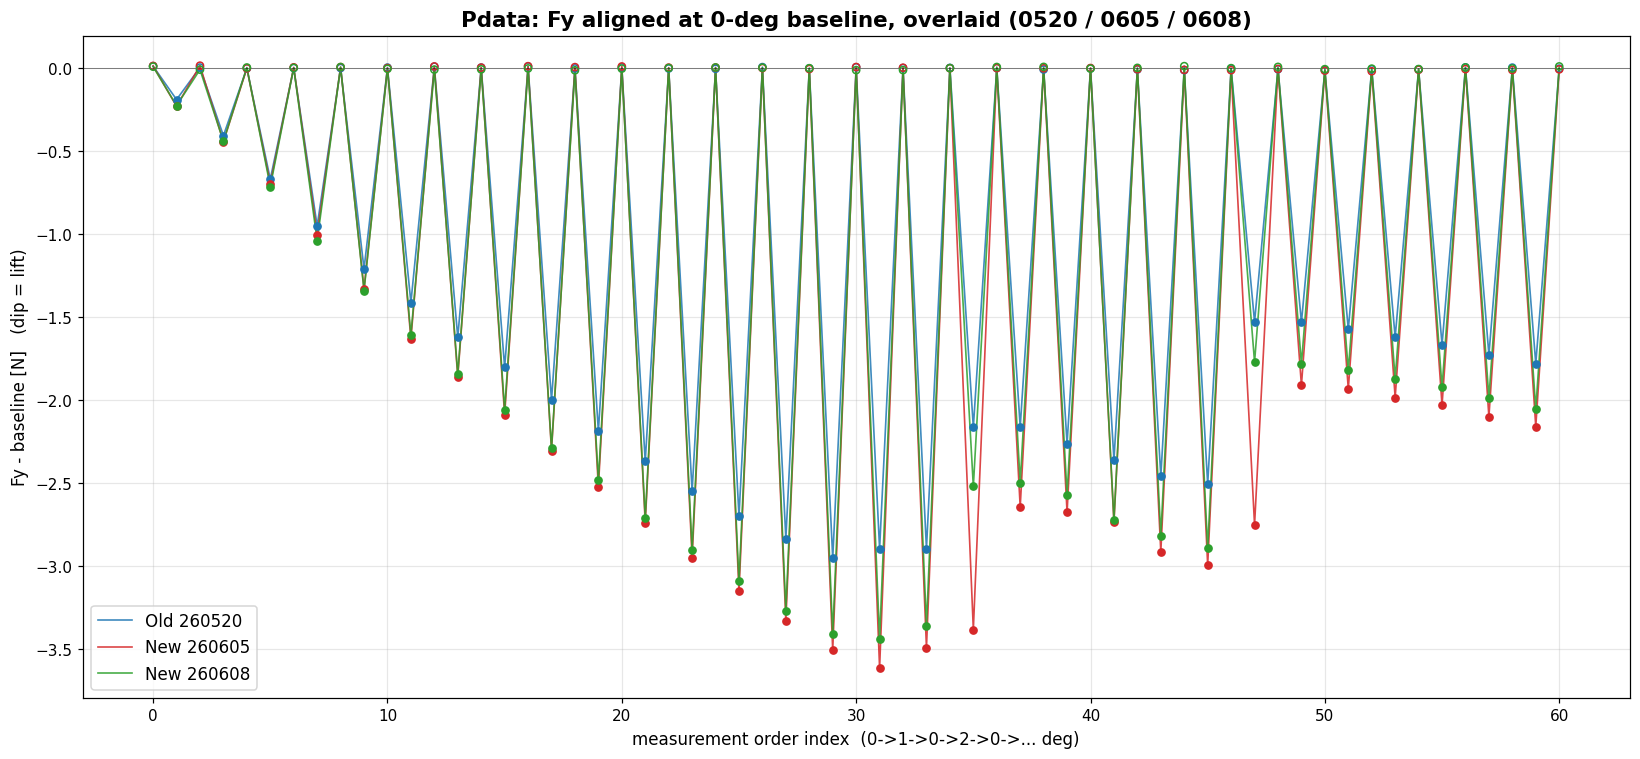
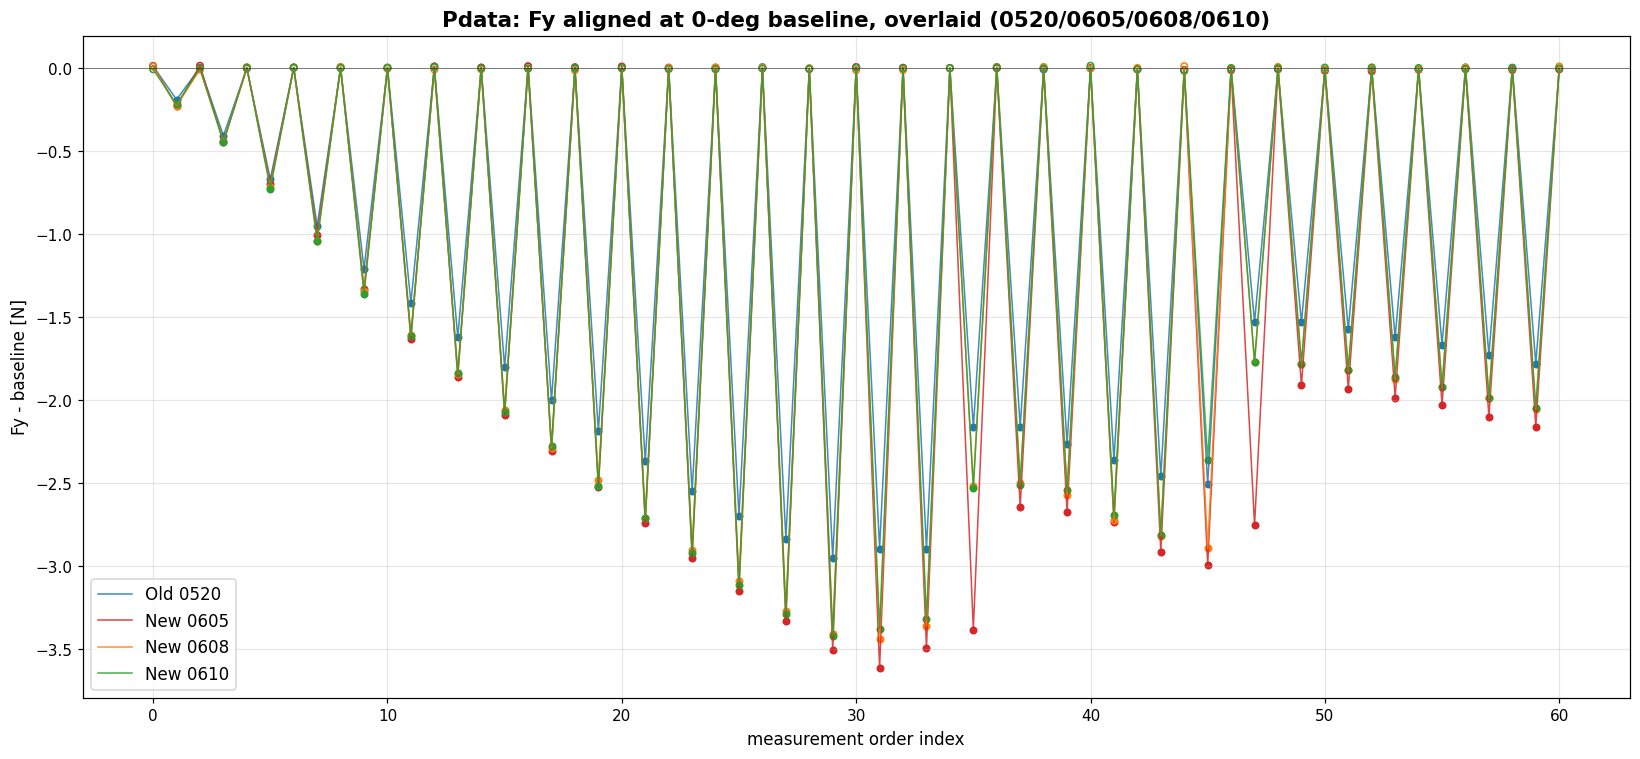
音と停止ボタン

diff --git a/run_experiment.m b/run_experiment.m
@@ -55,26 +55,45 @@ monitor.setDataSource(@() logger.getRecentRows(600));   % 6軸グラフ: 直近 
 t_start  = datetime('now');
 date_str = sprintf('%04d%02d%02d', year(t_start), month(t_start), day(t_start));
 
-% 気象条件（1回のみ入力）
-met = input_met_conditions_();
-met.calib_a        = cfg.calib_a;
-met.calib_b        = cfg.calib_b;
-met.volt_offset_mV = cfg.volt_offset_mV;
-met.git_commit     = git_commit_hash_();   % コード版数（VSCode等で確認できるコミットハッシュ・再現性記録用）
-
+% 実験ログのパス
 log_path = fullfile(exp_dir, sprintf('%s_experiment_log.json', date_str));
-save_experiment_log_(log_path, date_str, met);
-fprintf('[記録] 気象条件を保存しました\n\n');
-
-% 迎角範囲・開始フェーズ
-max_angle = input_max_angle_();
-start_idx = select_start_phase_();
 
 % =====================================================================
 %  3. 全フェーズ 連続計測
 % =====================================================================
 all_phases = {'Pofst', 'Mofst', 'Pdata', 'Mdata'};
 n_phases   = numel(all_phases);
+
+% ---- 実験リスタート制御ループ ----
+%  停止ボタンのメニュー(ask_stop_action_)で、このループ先頭に戻って再入場できる:
+%    完全に最初から    → need_met=true（気温・気圧の入力から）
+%    気温気圧の後から  → need_met=false（迎角範囲・開始フェーズの選択から）
+%    計測を途中から    → need_met=false かつ preset_start を選択フェーズに設定
+need_met     = true;   % 気温・気圧を入力するか
+preset_start = 0;      % >0 なら開始フェーズを固定（途中からやり直し用。迎角範囲は引き継ぐ）
+while true
+
+% ---- 気象条件（必要時のみ入力）----
+if need_met
+    met = input_met_conditions_();
+    met.calib_a        = cfg.calib_a;
+    met.calib_b        = cfg.calib_b;
+    met.volt_offset_mV = cfg.volt_offset_mV;
+    met.git_commit     = git_commit_hash_();   % コード版数（再現性記録用）
+    save_experiment_log_(log_path, date_str, met);
+    fprintf('[記録] 気象条件を保存しました\n\n');
+end
+
+% ---- 迎角範囲・開始フェーズ ----
+if preset_start > 0
+    start_idx = preset_start;   % 途中からやり直し: 迎角範囲は前回のまま、フェーズ固定
+    fprintf('[再開] %s フェーズからやり直します（迎角範囲は前回設定を継続）。\n\n', all_phases{preset_start});
+else
+    max_angle = input_max_angle_();
+    start_idx = select_start_phase_();
+end
+
+exp_control = '';   % 停止メニューの結果（''=正常完了 / restart_full / restart_after_met / restart_goto / quit）
 
 ph_idx = start_idx;
 while ph_idx <= n_phases
@@ -133,14 +152,11 @@ while ph_idx <= n_phases
         end
 
         % ------ 停止チェック（一時停止を経由しなくても確実に検出）------
-        %  停止ボタンは paused_ を false に戻すため、上の isPaused ゲートだけ
-        %  では計測中に押された停止を取りこぼす。pause_action_ を直接見て判定し、
-        %  デバイスを後始末してから終了する（ポート開きっぱなしを防ぐ）。
+        %  停止ボタンは paused_ を false に戻すため、isPaused ゲートだけでは
+        %  計測中の停止を取りこぼす。pause_action_ を直接見て判定し、メニューへ。
         if monitor.isStopRequested()
-            fprintf('[停止] 手動停止が選択されました。実験を終了します。\n\n');
-            try; stage.moveToAngle(0); catch; end
-            cleanup_devices_(stage, logger, s_volt, monitor);
-            return;
+            exp_control = handle_stop_(stage, logger, s_volt, monitor);
+            break;   % 計測点ループを抜ける → 下でフェーズループも抜け、外側で分岐
         end
 
         try
@@ -212,13 +228,10 @@ while ph_idx <= n_phases
             voltages = voltages(1:nv);
             fprintf('\n');
 
-            % ------ 計測中に停止が押された場合：この点は保存せず終了 ------
+            % ------ 計測中に停止が押された場合：この点は保存せずメニューへ ------
             if monitor.isStopRequested()
-                fprintf('[停止] 計測を中断しました。実験を終了します。\n\n');
-                try; logger.stop();          catch; end
-                try; stage.moveToAngle(0);   catch; end
-                cleanup_devices_(stage, logger, s_volt, monitor);
-                return;
+                exp_control = handle_stop_(stage, logger, s_volt, monitor);
+                break;   % 計測点ループを抜ける
             end
 
             % ------ f. 6軸センサの完全終了を待つ ------
@@ -280,10 +293,16 @@ while ph_idx <= n_phases
 
     end % while idx
 
+    % 停止メニューが選ばれた場合はフェーズループも抜けて、外側で分岐する
+    if ~isempty(exp_control)
+        break;
+    end
+
     % ---- フェーズ終了後の処理 ----
     switch phase_action
         case 'next'
             fprintf('=== %s フェーズ完了 ===\n\n', phase);
+            notify_sound_(2);   % フェーズ完了を音で実験者に通知
             try; stage.moveToAngle(0); catch; end
             ph_idx = ph_idx + 1;
 
@@ -305,11 +324,40 @@ while ph_idx <= n_phases
 
 end % while ph_idx
 
+% ===== 停止メニューの結果に応じて再入場 or 終了 =====
+switch exp_control
+    case ''                  % 停止なし = 全フェーズ正常完了
+        break;               % 外側リスタートループを抜けて後処理へ
+
+    case 'restart_full'      % 完全に最初から（気温・気圧から）
+        need_met = true;  preset_start = 0;
+        fprintf('[再起動] 完全に最初からやり直します。\n\n');
+        continue;
+
+    case 'restart_after_met' % 気温・気圧の後から（迎角範囲・開始フェーズの選択から）
+        need_met = false; preset_start = 0;
+        fprintf('[再起動] 迎角範囲・開始フェーズの選択からやり直します。\n\n');
+        continue;
+
+    case 'restart_goto'      % 計測を途中から（フェーズを選択）
+        need_met = false; preset_start = ask_goto_phase_();
+        continue;
+
+    case 'quit'              % 実験を終了
+        fprintf('[中止] 実験を終了します。\n\n');
+        try; stage.moveToAngle(0); catch; end
+        cleanup_devices_(stage, logger, s_volt, monitor);
+        return;
+end
+
+end % while true（実験リスタート制御ループ）
+
 % =====================================================================
 %  4. 実験完了・後処理
 % =====================================================================
 fprintf('=== 全フェーズ完了 ===\n');
 fprintf('[保存先] %s\n\n', exp_dir);
+notify_sound_(4);   % 全実験完了を音で通知（フェーズ完了より長め）
 
 cleanup_devices_(stage, logger, s_volt, monitor);
 run_postprocess_if_ready_(exp_dir, date_str, cfg);
@@ -671,6 +719,66 @@ function ph = ask_goto_phase_()
     end
     phases = {'Pofst', 'Mofst', 'Pdata', 'Mdata'};
     fprintf('→ [%s] からやり直します。\n\n', phases{ph});
+end
+
+function action = ask_stop_action_()
+    % 停止ボタン押下時にユーザーへ次の動作を確認する（ask_error_action_ と同スタイル）
+    fprintf('\n');
+    fprintf('════════════════════════════════════════\n');
+    fprintf('  [停止] 計測を停止しました\n');
+    fprintf('════════════════════════════════════════\n\n');
+    fprintf('どうしますか？\n');
+    fprintf('  F: 完全に最初からやり直す（気温・気圧の入力から）\n');
+    fprintf('  A: 気温・気圧の後からやり直す（迎角範囲・開始フェーズの選択から）\n');
+    fprintf('  M: 計測を途中からやり直す（やり直すフェーズを選択）\n');
+    fprintf('  Q: 実験を終了する\n\n');
+
+    valid = {'F','A','M','Q'};
+    while true
+        choice = upper(strtrim(input('選択 [F/A/M/Q]: ', 's')));
+        if ismember(choice, valid), break; end
+        fprintf('  ※ F, A, M, Q のいずれかを入力してください。\n');
+    end
+    fprintf('\n');
+
+    switch choice
+        case 'F'; action = 'restart_full';
+        case 'A'; action = 'restart_after_met';
+        case 'M'; action = 'restart_goto';
+        case 'Q'; action = 'quit';
+    end
+end
+
+function action = handle_stop_(stage, logger, s_volt, monitor) %#ok<INUSD>
+    % 停止検出時の共通処理:
+    %   1. 進行中の6軸記録を中断
+    %   2. 翼を 0° へ戻す
+    %   3. モニタの停止状態をリセット（再開できるように）
+    %   4. メニューを表示して次の動作を返す
+    try; logger.stop(); catch; end
+    fprintf('\n[停止] 計測を停止しています...\n');
+    try; stage.moveToAngle(0); catch; end
+    monitor.resetControl();
+    action = ask_stop_action_();
+end
+
+function notify_sound_(n_tones)
+    % 通知音を鳴らす（n_tones 個の上昇音）。
+    % 音声デバイスが無い環境でも実験は止めないよう try/catch で保護する。
+    if nargin < 1, n_tones = 2; end
+    try
+        Fs    = 8000;
+        t     = 0:1/Fs:0.16;                 % 1音あたり約0.16秒
+        env   = linspace(1, 0, numel(t));    % 簡易フェードアウト（プチノイズ抑制）
+        freqs = [784, 988, 1175, 1568];      % G5, B5, D6, G6（上昇する明るい音）
+        y = [];
+        for k = 1:min(n_tones, numel(freqs))
+            y = [y, sin(2*pi*freqs(k)*t) .* env]; %#ok<AGROW>
+        end
+        sound(y * 0.3, Fs);   % 音量30%
+    catch
+        try; beep; catch; end   % フォールバック（システムビープ）
+    end
 end
 
 function delete_phase_data_(data_dir, date_str, phase)

diff --git a/WindyMonitor.m b/WindyMonitor.m
@@ -214,6 +214,26 @@ classdef WindyMonitor < handle
         end
 
         % ============================================================
+        %  一時停止／停止の状態をリセット（実験リスタート時に呼ぶ）
+        %  停止後に再開できるよう、フラグと操作ボタン表示を初期状態へ戻す。
+        % ============================================================
+        function resetControl(obj)
+            if ~obj.is_open_(), return; end
+            obj.paused_       = false;
+            obj.pause_action_ = '';
+            if ~isempty(obj.btn_resume_) && isvalid(obj.btn_resume_)
+                obj.btn_resume_.Visible = 'off';
+            end
+            if ~isempty(obj.btn_stop_) && isvalid(obj.btn_stop_)
+                obj.btn_stop_.Visible = 'off';
+            end
+            if ~isempty(obj.btn_pause_) && isvalid(obj.btn_pause_)
+                obj.btn_pause_.Visible = 'on';
+            end
+            drawnow;
+        end
+
+        % ============================================================
         %  フェーズ名更新
         % ============================================================
         function setPhase(obj, phase)
